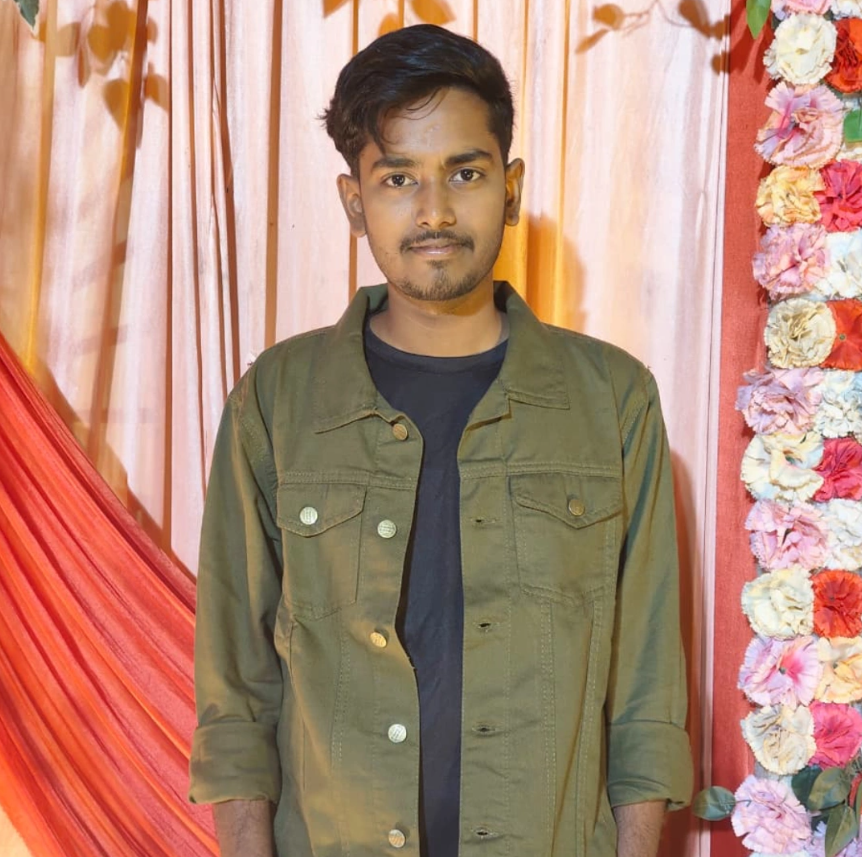
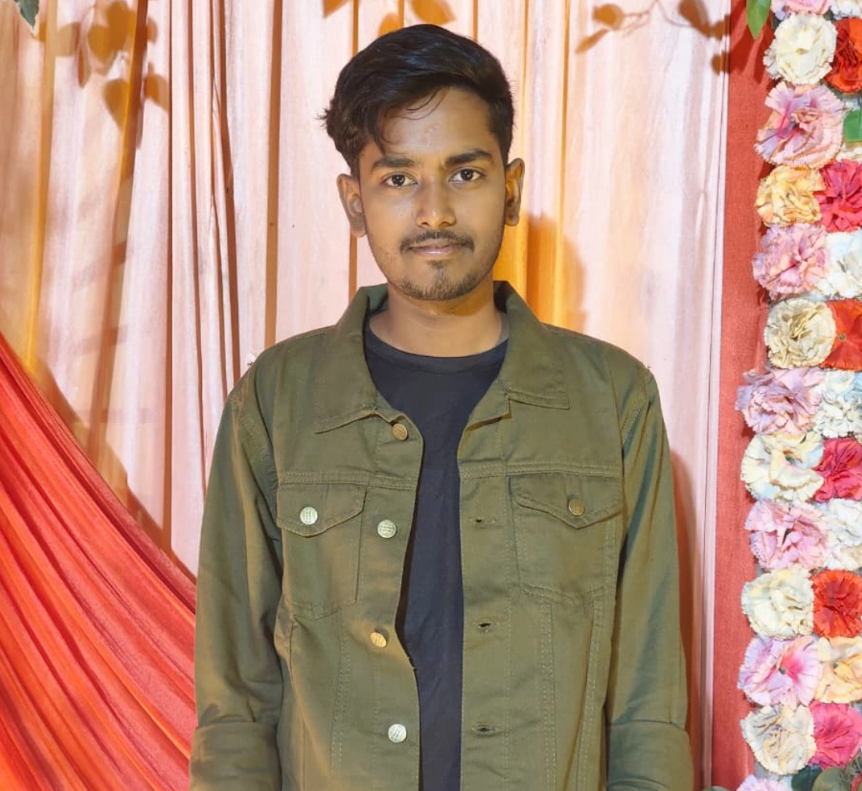
colour

diff --git a/website/src/pages/ourTeam.jsx b/website/src/pages/ourTeam.jsx
@@ -63,8 +63,8 @@ const OurTeam = () => {
     { name: "ASHIKA KUMARI", batch: "2k24", image: "/assets/team24/ashika.jpeg", linkedIn: "https://www.linkedin.com/in/ashika-kumari-638b81338/" },
     { name: "KUMARI SHALINI", batch: "2k24", image: "/assets/team24/shalini.jpeg", linkedIn: "https://www.linkedin.com/in/kumari-shalini-505146325/" },
     { name: "MOHIT KUMAR", batch: "2k24", image: "/assets/team24/mohit.jpeg", linkedIn: "https://www.linkedin.com/in/mohit-kumar-baa375335/" },
-    { name: "NEEL RAJ GUPTA", batch: "2k24", image: "/assets/team24/neel.jpg", linkedIn: "https://www.linkedin.com/in/neel-raj-gupta-b6b4b633a/" },
-    { name: "NIKHIL JAMES LAKRA", batch: "2k24", image: "/assets/team24/nikhilj.jpeg", linkedIn: "" },
+    { name: "NEEL RAJ GUPTA", batch: "2k24", image: "/assets/team24/neel.jpeg", linkedIn: "https://www.linkedin.com/in/neel-raj-gupta-b6b4b633a/" },
+    { name: "NIKHIL JAMES LAKRA", batch: "2k24", image: "/assets/team24/nikhilj.jpeg", linkedIn: "https://www.linkedin.com/in/nikhil-lakra-b2612b32a/" },
     { name: "NIKHIL KUMAR MAHATO", batch: "2k24", image: "/assets/team24/nikhilm.jpeg", linkedIn: "https://www.linkedin.com/in/nikhil-m-432002307/" },
     { name: "PRAJJWAL JHA", batch: "2k24", image: "/assets/team24/prajjwal.jpg", linkedIn: "https://www.linkedin.com/in/prajjwal-jha-98476133b/" },
     { name: "PRATIBHAA KUMARI", batch: "2k24", image: "/assets/team24/pratibhaa.jpg", linkedIn: "https://www.linkedin.com/in/pratibha-kumari-ab7306267/" },
@@ -72,9 +72,9 @@ const OurTeam = () => {
     { name: "PRIYA KUMARI", batch: "2k24", image: "/assets/team24/priya.jpeg", linkedIn: "https://www.linkedin.com/in/priya-kumari-a26aa8315/" },
     { name: "PRIYANSHI KUMARI", batch: "2k24", image: "/assets/team24/priyanshi.jpg", linkedIn: "https://www.linkedin.com/in/priyanshi-kumari-9b94a2276/" },
     { name: "RAHUL KUMAR", batch: "2k24", image: "/assets/team24/rahul.jpeg", linkedIn: "https://www.linkedin.com/in/rahul-kumar-419bbb333/" },
-    { name: "RAJ KRISHNA VATS", batch: "2k24", image: "/assets/team24/raj.jpg", linkedIn: "https://www.linkedin.com/in/rajvats2028/" },
+    { name: "RAJ KRISHNA VATS", batch: "2k24", image: "/assets/team24/raj.jpeg", linkedIn: "https://www.linkedin.com/in/rajvats2028/" },
     { name: "RAVI KUMAR", batch: "2k24", image: "/assets/team24/ravi.png", linkedIn: "https://www.linkedin.com/in/ravi-kumar-b5a1b230a/" },
-    { name: "ROSHAN PANDIT", batch: "2k24", image: "/assets/team24/roshan.png", linkedIn: "" },
+    { name: "ROSHAN PANDIT", batch: "2k24", image: "/assets/team24/roshan.png", linkedIn: "https://www.linkedin.com/in/roshan-kumar-6a1878313/" },
   ];
 
   /* ================= SCROLL REVEAL ================= */

diff --git a/website/src/pages/newsletter.jsx b/website/src/pages/newsletter.jsx
@@ -140,6 +140,13 @@ useEffect(() => {
             link.href = "/files/brochure26.pdf";
             link.download = "QUIMICA_Brochure.pdf";
             link.click();}}>Download</button>
+          <button onClick={() => {
+            const link = document.createElement("a");
+            link.href = "/files/brochure26.pdf";
+            link.target = "_blank";
+            link.click();
+           }}> Open Document
+          </button>
         </div>
       </section>
 
@@ -157,6 +164,13 @@ useEffect(() => {
             link.href = "/files/brochure25.pdf";
             link.download = "QUIMICA_Brochure.pdf";
             link.click();}}>Download</button>
+          <button onClick={() => {
+            const link = document.createElement("a");
+            link.href = "/files/brochure26.pdf";
+            link.target = "_blank";
+            link.click();
+           }}> Open Document
+          </button>
         </div>
       </section>
 
@@ -174,6 +188,13 @@ useEffect(() => {
             link.href = "/files/brochure24.pdf";
             link.download = "QUIMICA_Brochure.pdf";
             link.click();}}>Download</button>
+          <button onClick={() => {
+            const link = document.createElement("a");
+            link.href = "/files/brochure26.pdf";
+            link.target = "_blank";
+            link.click();
+           }}> Open Document
+          </button>
         </div>
       </section>
 

diff --git a/website/src/styles/footer.css b/website/src/styles/footer.css
@@ -18,6 +18,65 @@
   margin-bottom: 10px;
 }
 
+/* Container styling */
+.footer-center {
+  text-align: center;
+  padding: 20px;
+  font-family: 'Arial', sans-serif; /* Replace with your project font */
+}
+
+.footer-center h4 {
+  margin-bottom: 15px;
+  letter-spacing: 1px;
+  color: #F97316; /* Dark gray for the title */
+  font-size: 1.2rem;
+}
+
+/* Flexbox layout for the icons */
+.social-icons {
+  display: flex;
+  justify-content: center;
+  gap: 15px; /* Spacing between icons */
+}
+
+/* Base style for the icon links */
+.social-icons a {
+  display: flex;
+  align-items: center;
+  justify-content: center;
+  width: 40px;
+  height: 40px;
+  border-radius: 50%; /* Makes them circular */
+  background-color: #f0f0f0;
+  color: #555;
+  font-size: 1.2rem;
+  transition: all 0.3s ease; /* Smooth hover transition */
+  text-decoration: none;
+}
+
+/* Hover Effects */
+.social-icons a:hover {
+  transform: translateY(-5px); /* Lift up effect */
+  color: #fff;
+}
+
+/* Brand-specific colors on hover */
+.social-icons a[href*="facebook.com"]:hover {
+  background-color: #1877F2;
+}
+
+.social-icons a[href*="linkedin.com"]:hover {
+  background-color: #0077B5;
+}
+
+.social-icons a[href*="instagram.com"]:hover {
+  background-color: #E4405F;
+}
+
+.social-icons a[href*="x.com"]:hover {
+  background-color: #000000;
+}
+
 
 .footer-right {
   margin-right: 5%;

diff --git a/website/src/styles/faculty.css b/website/src/styles/faculty.css
@@ -261,13 +261,31 @@
 
 /* ✅ Mobile */
 @media (max-width: 600px) {
-  .team-container {
-    grid-template-columns: 1fr;
-  }
-
   .team-hero h1 {
     font-size: 32px;
   }
+
+  .team-container {
+  grid-template-columns: 1fr;
+  display: flex;
+  justify-content: center;
+  gap: 40px;
+  flex-wrap: wrap;
+  padding: 80px 60px;
+}
+
+  .team-container .team-card {
+  width: 120px;
+  height: 280px;
+  perspective: 1000px;
+  box-shadow: 0 0 25px rgba(255, 122, 0, 0.6);
+}
+
+.linkedin-icon {
+  width: 32px;
+  height: 32px;
+}
+
 }
 
 /* ❌ Laptop/Desktop → Default (NOT centered) */

diff --git a/website/src/styles/event.css b/website/src/styles/event.css
@@ -114,9 +114,9 @@
   padding: 0 20px 0 100px;  /* 🔥 added left space */
 }
 
-.featured-image img {
-  width: 240px !important;
-  height: 240px !important;
+.featured-event .featured-image img {
+  width: 280px !important;
+  height: 280px !important;
   object-fit: cover;
   border-radius: 12px;
   box-shadow: 0 0 15px rgba(255, 122, 0, 0.4);
@@ -177,7 +177,7 @@
 }
 
 /* 🔥 FINAL FIX FOR IMAGE SIZE */
-.event-card img {
+.event-grid .event-card img {
   width: 220px !important;
   height: 220px !important;
   object-fit: cover;

diff --git a/website/src/styles/newsletter.css b/website/src/styles/newsletter.css
@@ -116,12 +116,14 @@
   color: #f97316;
 }
 
-.featured-info button {
+.featured-event .featured-info button {
   margin-top: 25px;
-  background: linear-gradient(to right, #ff7e5f, #feb47b);
+  margin-left: 5px;
+  margin-right: 5px;
+  background: linear-gradient(to right, #7a3524, #532604);
   border: none;
   color: white;
-  padding: 12px 28px;
+  padding: 6px 18px;
   border-radius: 8px;
   font-size: 1rem;
   cursor: pointer;

diff --git a/website/src/styles/ourTeam.css b/website/src/styles/ourTeam.css
@@ -201,7 +201,7 @@
   }
 
   .team-card {
-    width: 90% !important;   /* 🔥 take full width */
+    width: 70% !important;   /* 🔥 take full width */
     height: 240px !important;
   }
 

diff --git a/website/src/styles/homePage.css b/website/src/styles/homePage.css
@@ -733,6 +733,7 @@ background: black;
     display: flex;
   }
 
+
   .hero,
   .about-container,
   .event-container,
